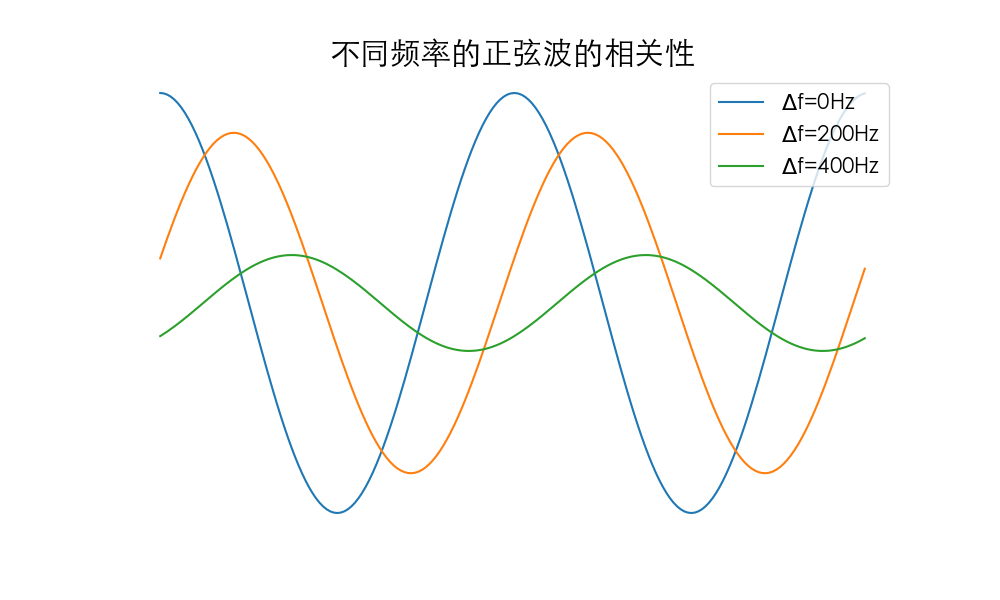
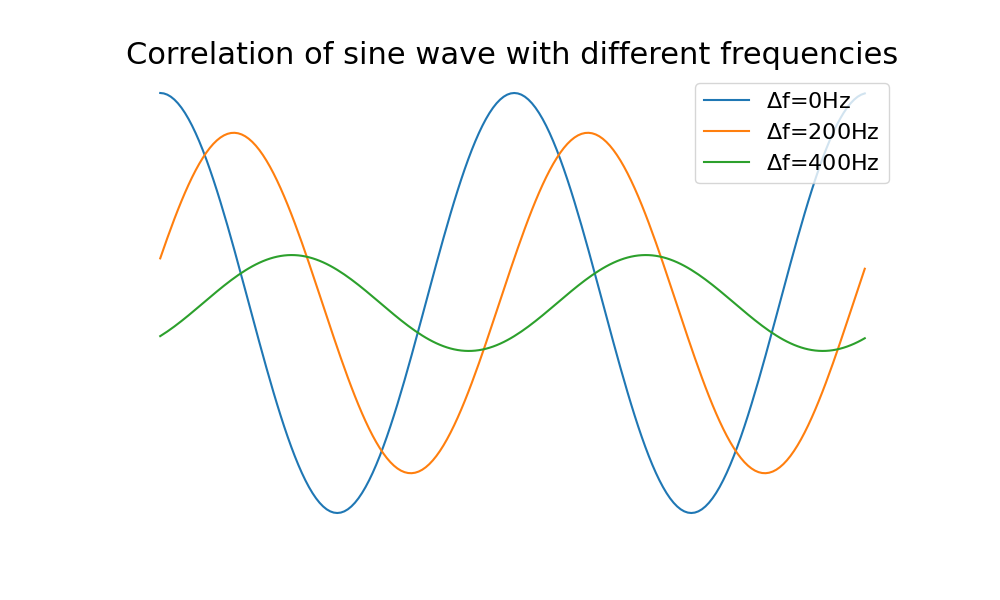
GPS signal processing
1. DSP background visualization
  2. Implement carrier loop and code loop
  3. Tracking loop and visualizations

Changed region(s): [[0.124, 0.06, 0.899, 0.12], [0.713, 0.15, 0.899, 0.33]]

diff --git a/code/utils/func.py b/code/utils/func.py
@@ -8,7 +8,7 @@ import matplotlib
 import matplotlib.pyplot as plt
 from matplotlib.animation import FuncAnimation
 matplotlib.use('TkAgg')
-language = 'cn'  # en: English or cn: Chinese
+language = 'en'  # en: English or cn: Chinese
 if language == 'cn':
     matplotlib.rcParams['font.family'] = ['Heiti TC']
 
@@ -72,7 +72,7 @@ class correlationAnimation:
         self.correlation = np.zeros(len(signal1) + len(signal2) - 1)
         self.sig1 = np.hstack((np.zeros(len(signal2) - 1), self.signal1, np.zeros(len(signal2) - 1)))
         self.sig2 = np.hstack((self.signal2, np.zeros(len(self.signal1) + len(self.signal2) - 2)))
-        self.fig, self.axes = plt.subplots(3, 1, figsize=(8, 5))
+        self.fig, self.axes = plt.subplots(3, 1, figsize=(12, 6))
 
     def start(self, save_gif=False, f_name='correlation'):
         '''start animation or save as gif'''
@@ -163,17 +163,17 @@ if __name__ == '__main__':
 
     save_vis = True
 
-    # # auto-correlation for random noise
-    # signal = np.random.randn(400)
-    # corr_anim = correlationAnimation(signal, signal, normalized=False)
-    # corr_anim.start(save_gif=save_vis, f_name='corr_noise_' + language)
+    # auto-correlation for random noise
+    signal = np.random.randn(400)
+    corr_anim = correlationAnimation(signal, signal, normalized=False)
+    corr_anim.start(save_gif=save_vis, f_name='corr_noise_' + language)
 
     # auto-correlation for sine wave
     t = np.arange(0, 2e-3, 1 / 100e3)
     f1 = 1e3
     signal1 = np.sin(2 * np.pi * f1 * t)
-    # corr_anim = correlationAnimation(signal1, signal1)
-    # corr_anim.start(save_gif=save_vis, f_name='corr_sine_' + language)
+    corr_anim = correlationAnimation(signal1, signal1)
+    corr_anim.start(save_gif=save_vis, f_name='corr_sine_' + language)
 
     # circular correlation for sine wave
     signal2 = np.sin(2 * np.pi * (f1 + 200) * t)
@@ -195,7 +195,7 @@ if __name__ == '__main__':
     if not os.path.exists('vis'):
         os.makedirs('vis')
     if save_vis:
-        plt.savefig(os.path.join('vis', 'corr_sine.png'))
+        plt.savefig(os.path.join('vis', 'corr_sine_' + language + '.png'))
     else:
         plt.show()
 
